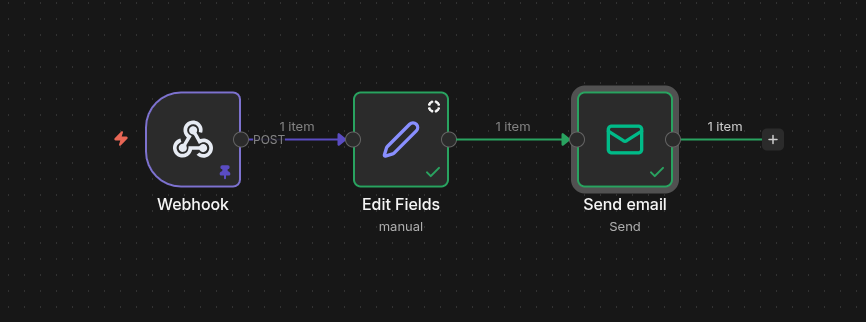
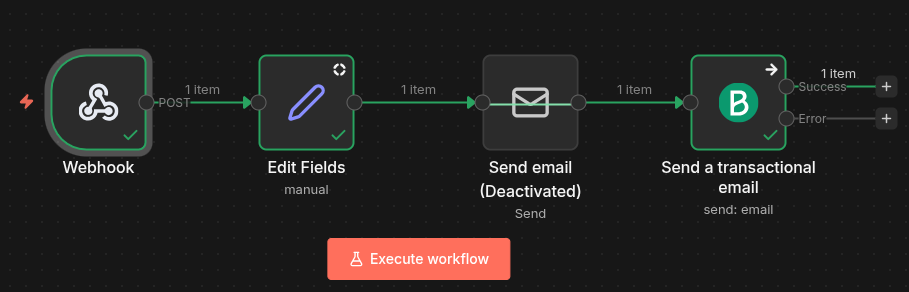
feat: add info to readme, update screenshots

diff --git a/appointly/urls.py b/appointly/urls.py
@@ -24,6 +24,6 @@ from drf_spectacular.views import (
 urlpatterns = [
     path('admin/', admin.site.urls),
     path("api/", include("reservations.urls")),
-     path("schema/", SpectacularAPIView.as_view(), name="schema"),
+    path("schema/", SpectacularAPIView.as_view(), name="schema"),
     path("", SpectacularSwaggerView.as_view(url_name="schema"), name="swagger-ui"),
 ]

diff --git a/README.md b/README.md
@@ -1,12 +1,17 @@
 # Sistema de Reservas Simple (Backend + Automatización)
 
+**[Live demo](https://reservation-system-kk8h.onrender.com/)** | **[Source code](https://github.com/HelberthGM/reservation_system_appointly)** | **[LinkedIn](https://www.linkedin.com/in/helberthgm/)**
+
+
 ## 📌 Descripción
 
 Sistema de reservas sencillo y robusto para **servicios pequeños** (clases, consultorios, entrenadores, salas de reunión) que permite **crear, validar y cancelar reservas**, evitando conflictos de horario y enviando **notificaciones automáticas**.
 
 El enfoque es **API-first** con automatización: el backend gestiona la lógica crítica y n8n se encarga de confirmaciones y flujos externos.
 
-[Link al proyecto](https://reservation-system-kk8h.onrender.com/)
+## 🚀 Demo en vivo
+
+- 🔗 **API (Render)**: https://reservation-system-kk8h.onrender.com/
 
 ---
 
@@ -28,7 +33,7 @@ Este sistema elimina esos problemas con reglas claras y automatización.
 * Evitar doble reserva en el mismo horario
 * Listar reservas por fecha
 * Cancelar reservas
-* Envia email de confirmación con opción de confirmar o cancelar la reserva (via n8n)
+* Envía email de confirmación con opción de confirmar o cancelar la reserva
 
 <!-- 
 ## ❌ Qué NO hace (por diseño)
@@ -37,7 +42,7 @@ Este sistema elimina esos problemas con reglas claras y automatización.
 * No incluye autenticación avanzada
 * No maneja múltiples sedes
 -->
-> Estas decisiones mantienen el sistema **simple, mantenible y fácil de adaptar**.
+> La confirmación y cancelación se realizan mediante **enlaces de un solo uso** basados en un `signed_id`.
 
 ---
 ## 🔄 Flujo de funcionamiento
@@ -46,21 +51,23 @@ Este sistema elimina esos problemas con reglas claras y automatización.
 2. El sistema valida disponibilidad y guarda la reserva
 3. Se envía un email automático con opciones para confirmar o cancelar
 4. El cliente confirma o cancela desde el email
-5. El sistema actualiza el estado y notifica automáticamente
+5. El sistema valida el token y actualiza el estado
 ---
 
 ## 🧱 Arquitectura
 
 ```
-Cliente (Formulario / Postman / n8n)
+Cliente / Formulario
         ↓
-Backend API (Django REST Framework)
+Backend API (Django REST Framework) — Render
         ↓
 Base de datos (SQLite / PostgreSQL)
         ↓
-n8n (emails, recordatorios, automatización)
+n8n self-hosted — Railway
+        ↓
+Servicios externos (Brevo, Telegram*)
 ```
-
+* Telegram planeado como mejora futura
 ---
 
 ## 🔌 Endpoints principales
@@ -83,11 +90,11 @@ POST /reservations
 }
 ```
 
-### Listar reservas por fecha
+<!-- ### Listar reservas por fecha
 
 ```http
 GET /reservations?date=2026-01-15
-```
+``` -->
 
 ### Cancelar reserva
 
@@ -116,37 +123,23 @@ POST /reservations/confirm/?signed_id=...
 
 ## 🤖 Automatización con n8n
 
-* Recepción de reservas vía Webhook
-* Envío de confirmación automática
-* Manejo de errores sin romper el flujo
-* Posibilidad de añadir recordatorios o integraciones (email, Google Sheets, Telegram)
+La automatización está implementada usando **n8n self-hosted**, desplegado en **Railway** mediante contenedor Docker.
 
----
-## 🧪 Pruebas (en desarrollo)
+> Aunque n8n se ejecuta en Railway, sigue siendo **self-hosted** porque la instancia, datos y credenciales son controlados por el desarrollador, no por n8n Cloud.
 
-* Probado usando Postman y Swagger UI
-* Flujo probado con datos incompletos, campos faltantes y campos extra
-* Manejo de errores controlado
+### Funcionalidad actual
 
----
+* Recepción de eventos vía Webhook desde la API desplegada en Render
+* Envío de emails transaccionales usando **Brevo (API-first)**
+* Confirmación y cancelación mediante enlaces firmados (`signed_id`)
+* Manejo de errores de red y rebotes sin afectar la lógica principal
 
-## 🚀 Casos de uso
+### Decisiones técnicas
 
-* Clases particulares
-* Entrenadores personales
-* Consultorios pequeños
-* Reservas internas de salas
-
----
- 
-## 💼 Enfoque profesional
-
-Este proyecto está pensado como **base vendible**, fácilmente adaptable a distintos negocios y escalable con:
-
-* PostgreSQL
-* Docker
-* Autenticación
-* Frontend dedicado
+* Separación de responsabilidades: API (Render) / Automatización (Railway)
+* No se utiliza SMTP directo
+* Credenciales cifradas usando `N8N_ENCRYPTION_KEY`
+* Los emails se manejan como operación *best-effort*
 
 ---
 
@@ -155,6 +148,31 @@ Este proyecto está pensado como **base vendible**, fácilmente adaptable a dist
 ✔ MVP funcional
 ✔ Backend estable
 ✔ Automatización integrada
+✔ Confirmación segura con token de un solo uso
+
+---
+
+## 🔮 Mejoras planificadas
+
+* 🔔 **Notificaciones por Telegram** como canal alternativo o de respaldo
+* ⏰ **Recordatorios automáticos** antes de la reserva (Cron + n8n)
+* 🔁 Reintentos controlados ante fallos de notificación
+* 📊 Registro del estado de notificaciones (enviado, rebotado, fallido)
+
+Estas mejoras no requieren cambios en el backend principal, demostrando un diseño desacoplado y extensible.
+
+---
+
+## 💼 Enfoque profesional
+
+Proyecto desarrollado como **pieza de portafolio**, enfocado en demostrar:
+
+* Diseño de APIs REST robustas
+* Separación clara entre lógica de negocio y automatización
+* Uso de servicios cloud (Render + Railway)
+* Decisiones técnicas pragmáticas orientadas a escalabilidad
+
+El sistema está preparado para evolucionar a producción con dominio propio, DKIM, autenticación, frontend dedicado y múltiples canales de notificación.
 
 ---
 ## 📸 Automatización (n8n)
@@ -175,7 +193,7 @@ Este flujo se activa cuando se crea una nueva reserva:
 
 ![n8n-main-workflow](screenshots/n8n-main-workflow.png)
 
-### Confirmación y cancelación de reservas (en desarrollo)
+### Confirmación y cancelación de reservas
 
 ![correo-de-confirmación/cancelación](screenshots/correo-confirm-cancel.png)
 
@@ -196,6 +214,12 @@ El flujo está diseñado para ser robusto:
 
 ## 📬 Contacto
 
-Proyecto desarrollado como base para soluciones freelance de automatización y backend.
+Este proyecto forma parte de mi portafolio profesional como desarrollador backend.
+
+- 💼 **LinkedIn**: [https://www.linkedin.com/in/helberthgm/](https://www.linkedin.com/in/helberthgm/)
+- 🧑💻 **GitHub**: [https://github.com/HelberthGM](https://github.com/HelberthGM)
+- ✉ **Email**: hagarciadev@gmail.com
+
+Estoy abierto a feedback técnico, oportunidades backend y proyectos freelance relacionados con automatización y sistemas cloud.
 
 ---
